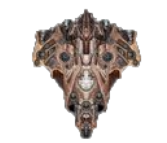
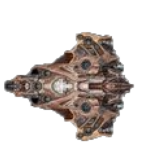
added sprite rotation for enemies on path

diff --git a/EverLite/Modules/Enemies/Enemy.cs b/EverLite/Modules/Enemies/Enemy.cs
@@ -21,12 +21,31 @@ namespace EverLite.Modules.Enemies
         private IBlaster blaster;
         private Lifespan lifespan;
 
+        /// <summary>
+        /// Initializes a new instance of the <see cref="Enemy"/> class.
+        /// </summary>
+        /// <param name="sprite">sprite of the enemy.</param>
+        /// <param name="blaster">blaster pattern.</param>
+        /// <param name="movement">movement pattern.</param>
+        /// <param name="lifespan">lifespan pattern.</param>
+        public Enemy(SpriteN sprite, IBlaster blaster, IMovement movement, float lifespan)
+        {
+            this.Blaster = blaster;
+            this.enemySprite = sprite;
+            this.Movement = movement;
+            this.lifespan = new Lifespan(lifespan);
+        }
+
+        /// <summary>
+        /// gets or sets blaster object.
+        /// </summary>
         public IBlaster Blaster
         {
             get
             {
                 return this.blaster;
             }
+
             protected set
             {
                 this.blaster = value;
@@ -47,14 +66,9 @@ namespace EverLite.Modules.Enemies
         /// </summary>
         public Vector2 Position { get => this.Movement.GetPosition(this.lifespan.Halflife); }
 
-        public Enemy(SpriteN sprite, IBlaster blaster, IMovement movement, float lifespan)
-        {
-            this.Blaster = blaster;
-            this.enemySprite = sprite;
-            this.Movement = movement;
-            this.lifespan = new Lifespan(lifespan);
-        }
-
+        /// <summary>
+        /// Gets a value indicating whether or not the enemy is alive.
+        /// </summary>
         public bool IsAlive
         {
             get => this.lifespan.Halflife < 1;
@@ -87,10 +101,9 @@ namespace EverLite.Modules.Enemies
         public void Draw(SpriteBatch sprite)
         {
             sprite.Begin();
-            this.enemySprite.Draw(sprite, this.Position);
+            this.enemySprite.Draw(sprite, this.Position, rotation: Movement.Angle(this.lifespan.Halflife));
             sprite.End();
         }
-
     }
 
 }

diff --git a/EverLite/Modules/Sprites/SpriteN.cs b/EverLite/Modules/Sprites/SpriteN.cs
@@ -9,6 +9,7 @@ namespace EverLite.Modules.Sprites
     using System.Text;
     using Microsoft.Xna.Framework;
     using Microsoft.Xna.Framework.Graphics;
+
     public class SpriteN
     {
         private Texture2D mTexture;
@@ -20,12 +21,12 @@ namespace EverLite.Modules.Sprites
 
         public Texture2D Texture { get { return this.mTexture; } }
 
-        public void Draw(SpriteBatch spriteBatch, Vector2 position, float scale = 1, float rotation = 0 )
+        public void Draw(SpriteBatch spriteBatch, Vector2 position, float scale = 1, float rotation = 0)
         {
             Vector2 origin = new Vector2(0, 0);
             origin.X = this.mTexture.Width / 2;
             origin.Y = this.mTexture.Height / 2;
-            spriteBatch.Draw(this.mTexture, position, null, Color.White,rotation, origin,scale, SpriteEffects.None, 0);
+            spriteBatch.Draw(this.mTexture, position, null, Color.White, rotation, origin,scale, SpriteEffects.None, 0);
         }
     }
 }

diff --git a/EverLite/Modules/Blaster/Bullet.cs b/EverLite/Modules/Blaster/Bullet.cs
@@ -11,6 +11,7 @@ namespace EverLite.Modules.Blaster
     using EverLite.Modules.Enemies;
     using EverLite.Modules.Sprites;
     using Microsoft.Xna.Framework;
+    using Microsoft.Xna.Framework.Graphics;
 
     class Bullet
     {
@@ -39,6 +40,17 @@ namespace EverLite.Modules.Blaster
             this.lifespan.Update(gameTime);
 
             
+        }
+
+        /// <summary>
+        /// Draws the bullet sprite.
+        /// </summary>
+        /// <param name="spriteBatch">spritebatch to draw too.</param>
+        public void Draw(SpriteBatch spriteBatch)
+        {
+            spriteBatch.Begin();
+            this.sprite.Draw(spriteBatch, this.Position);
+            spriteBatch.End();
         }
     }
 }

diff --git a/EverLite/Modules/Behavior/CurvedMovement.cs b/EverLite/Modules/Behavior/CurvedMovement.cs
@@ -36,6 +36,12 @@ namespace EverLite.Modules.Behavior
             this.keyCollection.Add(new CurveKey(end.X, end.Y));
         }
 
+        public float Angle(double halfLife)
+        {
+            var dif = this.GetPosition(halfLife) - this.GetPosition(halfLife - .0001d);
+            return (float)Math.Atan((double)dif.Y / (double)dif.X);
+        }
+
         public Vector2 GetPosition(double halfLife)
         {
             var delta = this.end.X - this.start.X;

diff --git a/EverLite/Modules/Behavior/LinearMovement.cs b/EverLite/Modules/Behavior/LinearMovement.cs
@@ -26,6 +26,11 @@ namespace EverLite.Modules.Behavior
             this.diff = finalPos - initialPos;
         }
 
+        public float Angle(double halfLife)
+        {
+            return (float)Math.Atan((double)this.diff.Y/ (double)this.diff.X);
+        }
+
         // inheritdoc
         public Vector2 GetPosition(double halfLife)
         {

diff --git a/EverLite/Modules/Behavior/IMovement.cs b/EverLite/Modules/Behavior/IMovement.cs
@@ -21,5 +21,7 @@ namespace EverLite.Modules.Behavior
         /// <param name="halfLife">Halflife represents the percentage an object is through its lifetime.</param>
         /// <returns>returns the position along the path.</returns>
         Vector2 GetPosition(double halfLife);
+
+        float Angle(double halfLife);
     }
 }

diff --git a/EverLite/Modules/Enemies/EnemyManager.cs b/EverLite/Modules/Enemies/EnemyManager.cs
@@ -18,6 +18,7 @@ namespace EverLite.Modules.Enemies
         private List<Enemy> activeEnemies;
         private Game mGame;
         private WaveManager waveManager;
+
         /// <summary>
         /// Initializes a new instance of the <see cref="EnemyManager"/> class.
         /// </summary>
